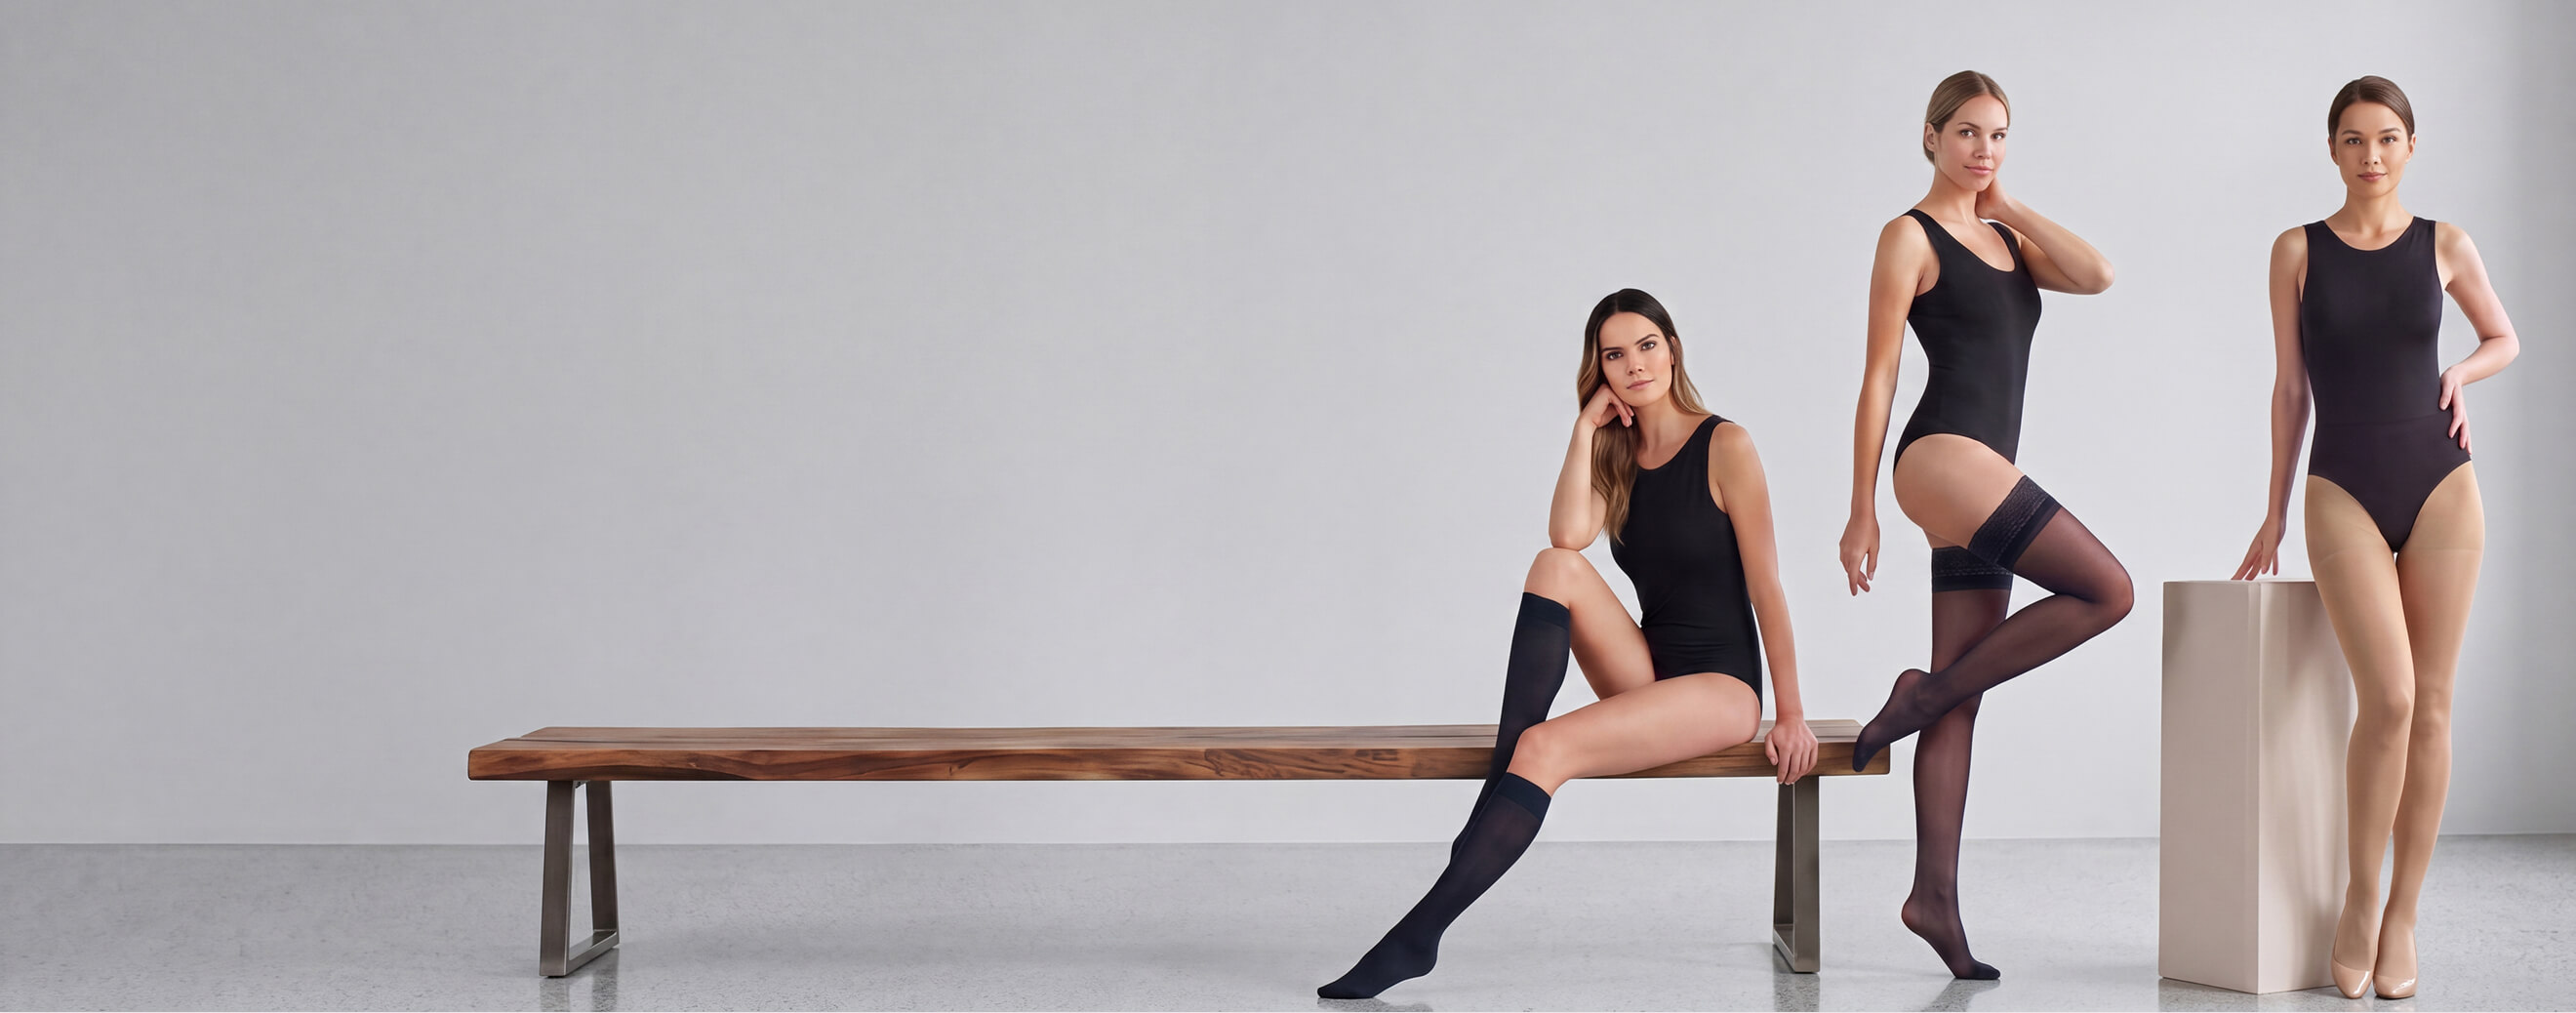
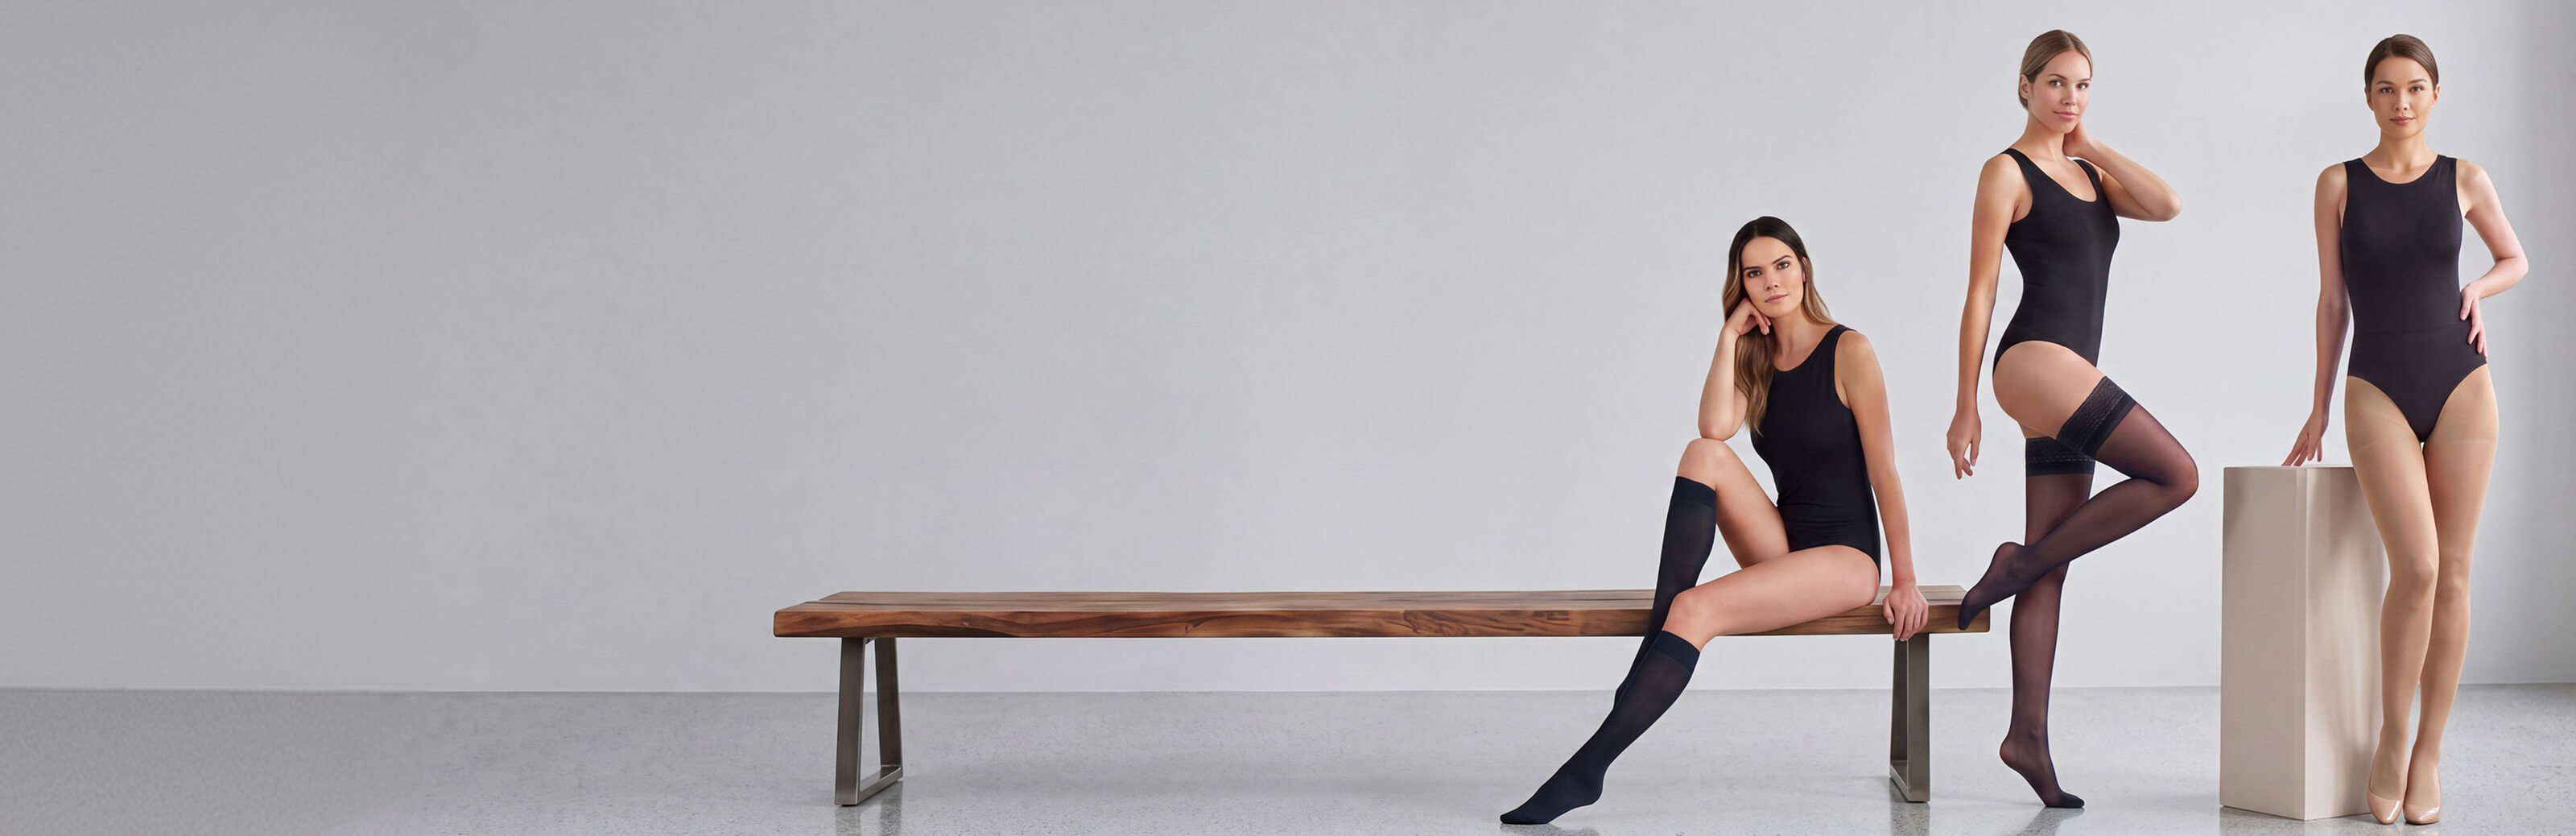
updates
Главная страница
- блок "почему ваши ноги..." - давайте сделаем отображение пинов при наведении, не при клике
- пин "отёки коленей и стоп" при клике немного
- блок "кому подойдёт..." - скролл сделать при скролле мышкой

Полезное видео
- https://c2n.me/4objw5G - что-то не так с выравниванием

Общие моменты
- добавили эскизы для 1920

Где купить?
- точки на карте сделали меньше

Changed region(s): [[0.0, 0.0308, 1.0, 1.0], [0.0932, 0.9865, 0.1242, 1.0]]

diff --git a/css/styles.css b/css/styles.css
@@ -479,7 +479,7 @@ header.fixed .header-logo {min-width:92px; max-width:92px}
     .breadcrumbs-mobile svg {min-width:5px; max-width:5px; height:7px; display:block; fill:none; stroke:#000000; transform:scale(-1, 1)}
 }
 
-.main-welcome {position:relative; margin:-100px 0 0 0; height:46.35vw}
+.main-welcome {position:relative; margin:-100px 0 0 0; height:666px}
 .main-welcome-bg {position:absolute; left:0; top:0; right:0; bottom:0; overflow:hidden}
 .main-welcome-bg img {position:relative; display:block; width:100%; height:100%; max-width:none; -o-object-fit:cover; object-fit:cover}
 .main-welcome-bg-mobile {display:none}
@@ -519,7 +519,7 @@ header.fixed .header-logo {min-width:92px; max-width:92px}
 
 @media (min-width:1441px) {
     .main-content {margin:0 0 -140px 0}
-    .main-section-white {margin:0 -160px; padding:100px 160px}
+    .main-section-white {margin:0 -160px; padding:120px 160px}
 }
 
 @media (max-width:1199px) {
@@ -553,7 +553,10 @@ header.fixed .header-logo {min-width:92px; max-width:92px}
 .main-why-point-3 .main-why-point-content {left:40px}
 .main-why-point-4 .main-why-point-content {right:40px}
 .main-why-point-text {display:none; margin:6px 0 0 0; color:#FFFFFF; min-width:205px}
-.main-why-point.open .main-why-point-text {display:block}
+.main-why-point-4 .main-why-point-text {margin-right:-10px}
+@media (min-width:1200px) {
+    .main-why-point:hover .main-why-point-text {display:block}
+}
 
 @media (max-width:1199px) {
     .main-why {margin:20px 0 0 0; padding:139.13% 0 0 0; background-image:url(../images/main-why-mobile.jpg)}
@@ -653,7 +656,7 @@ header.fixed .header-logo {min-width:92px; max-width:92px}
     .main-who-list .swiper-scrollbar.swiper-scrollbar-horizontal {margin:20px 15px 0 15px; height:2px}
 }
 
-.main-questionnaire {margin:0 -60px; padding:100px 60px; min-height:43.05vw; background:url(../images/main-questionnaire.jpg) no-repeat center; background-size:cover; display:flex; flex-direction:column; align-items:center; justify-content:center; text-align:center; color:#FFFFFF}
+.main-questionnaire {margin:0 -60px; padding:100px 60px; min-height:620px; background:url(../images/main-questionnaire.jpg) no-repeat center; background-size:cover; display:flex; flex-direction:column; align-items:center; justify-content:center; text-align:center; color:#FFFFFF}
 .main-questionnaire h2 {color:#FFFFFF}
 .main-questionnaire-btn {margin:40px 0 0 0}
 .main-questionnaire-btn .btn-border {border-color:#866857; color:#FFFFFF}
@@ -662,7 +665,7 @@ header.fixed .header-logo {min-width:92px; max-width:92px}
 }
 
 @media (min-width:1441px) {
-    .main-questionnaire {margin:0 -160px; padding:100px 160px}
+    .main-questionnaire {margin:0 -160px; padding:100px 160px; min-height:700px}
 }
 
 @media (max-width:1199px) {
@@ -811,9 +814,13 @@ header.fixed .header-logo {min-width:92px; max-width:92px}
     .health-recommendations-item-phlebodia .btn {width:100%}
 }
 
-.content-video {margin:20px 0; padding:56.25% 0 0 0; position:relative}
+.content-video {margin:20px 0; padding:640px 0 0 0; position:relative; background:#000000}
 .content-video video,
 .content-video iframe {position:absolute; left:0; top:0; width:100%; height:100%}
+
+@media (max-width:1199px) {
+    .content-video {padding:73.04% 0 0 0}
+}
 
 .catalogue-more {margin:40px 0 0 0}
 .catalogue-more .btn {display:flex; font-weight:300; font-size:16px; line-height:1.5em}
@@ -900,7 +907,7 @@ header.fixed .header-logo {min-width:92px; max-width:92px}
 .buy-recommend {margin:0 0 10px 0; font-weight:500; text-transform:uppercase; color:#866857}
 .buy-notice {margin:0 0 40px 0; font-weight:500; color:#000000}
 
-.buy-shop {margin:0 0 40px 0; padding:39.31% 0 0 0; background:url(../images/buy-shop.jpg) no-repeat center; background-size:cover; position:relative}
+.buy-shop {margin:0 0 40px 0; padding:519px 0 0 0; background:url(../images/buy-shop.jpg) no-repeat right center; background-size:cover; position:relative}
 .buy-shop:last-child {margin:0}
 .buy-shop-content {position:absolute; left:50px; top:50px; right:50px}
 .buy-shop-title {margin:0 0 20px 0; font-weight:normal; font-size:36px; line-height:44px; color:#000000}
@@ -916,7 +923,7 @@ header.fixed .header-logo {min-width:92px; max-width:92px}
 .buy-partners-title {margin:0 0 20px 0; font-weight:normal; font-size:24px; line-height:29px; color:#000000}
 .buy-partners-map {height:660px}
 .buy-map-marker {width:0; height:0; position:relative}
-.buy-map-marker-icon {position:absolute; left:-30px; top:-30px; width:60px; height:60px; background:#866857 url(../images/buy-map-marker.svg) no-repeat center; background-size:100%; border-radius:50%; cursor:pointer; transition:background-color 0.2s}
+.buy-map-marker-icon {position:absolute; left:-24px; top:-24px; width:48px; height:48px; background:#866857 url(../images/buy-map-marker.svg) no-repeat center; background-size:100%; border-radius:50%; cursor:pointer; transition:background-color 0.2s}
 @media (min-width:1200px) {
     .buy-map-marker-icon:hover {background-color:#000000}
 }
@@ -937,11 +944,12 @@ header.fixed .header-logo {min-width:92px; max-width:92px}
 @media (max-width:1199px) {
     .buy-partners-map {height:490px}
     .buy-map-popup {bottom:40px; width:315px; padding:10px}
-    .buy-map-marker-icon {left:-24px; top:-24px; width:48px; height:48px}
     .buy-map-popup-info-row {flex-direction:column; gap:5px 0}
     .buy-map-popup-info-row-label {min-width:0; max-width:none; color:rgba(255, 255, 255, 0.6)}
     .buy-map-popup-close {right:10px; top:10px}
 }
+
+.buy-map-cluster {width:60px; height:60px; display:flex; align-items:center; justify-content:center; border:2px solid #866857; background:#FFFFFF; border-radius:50%; font-weight:normal; font-size:24px; line-height:1em; color:#000000; letter-spacing:0}
 
 .spec {margin:40px 0 0 0}
 .spec-menu {display:flex}
@@ -993,18 +1001,22 @@ header.fixed .header-logo {min-width:92px; max-width:92px}
 .returns {display:flex; margin:40px 0 0 0; align-items:flex-start; gap:0 40px}
 .returns-info {flex-grow:1; display:flex; flex-direction:column; gap:40px 0}
 .returns-construct {border-top:1px solid #866857; border-bottom:1px solid #866857; padding:20px 0; font-weight:500; text-transform:uppercase; color:#866857}
-.returns-detail {min-width:37.87vw; max-width:37.87vw}
+.returns-detail {min-width:500px; max-width:500px}
 .returns-detail *:first-child {margin-top:0}
 .returns-detail *:last-child {margin-bottom:0}
+
+@media (min-width:1441px) {
+    .returns-detail {min-width:600px; max-width:600px}
+}
 
 @media (max-width:1199px) {
     .returns {margin:20px 0 0 0; flex-direction:column; gap:20px 0}
     .returns-detail {min-width:0; max-width:none}
 }
 
-.video-list {display:flex; margin:40px -10px 0 -10px; flex-wrap:wrap; gap:20px}
+.video-list {display:flex; margin:40px 0 0 0; flex-wrap:wrap; gap:20px}
 .video-item {min-width:calc(33.33% - 20px); max-width:calc(33.33% - 20px); display:flex; flex-direction:column; gap:10px 0}
-.video-item-preview {height:16.31vw; position:relative; overflow:hidden}
+.video-item-preview {height:235px; position:relative; overflow:hidden}
 .video-item-preview::after {content:""; position:absolute; left:0; top:0; right:0; bottom:0; background:rgba(0, 0, 0, 0.1); opacity:0; transition:opacity 0.2s}
 @media (min-width:1200px) {
     .video-item:hover .video-item-preview::after {opacity:1}

diff --git a/css/sitedown.css b/css/sitedown.css
@@ -21,13 +21,21 @@ a {outline:none; color:#866857; text-decoration:none; transition:color 0.2s}
 
 img {border:none; max-width:100%; height:auto}
 
-.container {max-width:1180px; width:100%; margin:0 auto}
+.container {width:100%; padding:0 60px}
+
+@media (min-width:1441px) {
+    .container {padding:0 160px}
+}
 
 @media (max-width:1199px) {
     .container {padding:0 15px}
 }
 
 .sitedown {padding:40px 0 140px 0}
+
+@media (min-width:1441px) {
+    .sitedown {padding:120px 0}
+}
 
 @media (max-width:1199px) {
     .sitedown {padding:40px 0}
@@ -36,23 +44,22 @@ img {border:none; max-width:100%; height:auto}
 .sitedown-logo {display:flex}
 .sitedown-logo img {width:183px}
 
-.sitedown-content {margin:40px 0 0 0; display:flex; align-items:center; justify-content:space-between}
+.sitedown-content {margin:40px 0 0 0; display:flex; align-items:center; justify-content:space-between; gap:0 100px}
 
 @media (max-width:1199px) {
     .sitedown-content {margin:20px 0 0 0; flex-direction:column; gap:20px 0}
 }
 
-.sitedown-text {min-width:540px; max-width:540px}
+.sitedown-text {flex:1}
 .sitedown-title {font-weight:normal; font-size:36px; line-height:44px; letter-spacing:0; color:#000000}
 .sitedown-descr {margin:21px 0 0 0}
 
 @media (max-width:1199px) {
-    .sitedown-text {min-width:0; max-width:none}
     .sitedown-title {font-weight:500; font-size:24px; line-height:1.5em}
     .sitedown-descr {margin:20px 0 0 0}
 }
 
-.sitedown-contacts {min-width:540px; max-width:540px; display:flex; flex-direction:column; gap:20px 0}
+.sitedown-contacts {flex:1; display:flex; flex-direction:column; gap:20px 0}
 .sitedown-contacts-block {display:flex; flex-direction:column; justify-content:space-between; gap:10px 0; padding:20px; background:#FFFFFF; min-height:185px}
 .sitedown-contacts-block-title {font-weight:normal; font-size:14px; line-height:1.5em; letter-spacing:0; color:#866857; text-transform:uppercase}
 .sitedown-contacts-block-text {margin:30px 0 0 0}
@@ -60,7 +67,7 @@ img {border:none; max-width:100%; height:auto}
 .sitedown-contacts-block-value a {color:#000000}
 
 @media (max-width:1199px) {
-    .sitedown-contacts {min-width:0; max-width:none; gap:10px 0}
+    .sitedown-contacts {gap:10px 0}
     .sitedown-contacts-block {padding:15px; gap:20px 0; min-height:0; background:#F7F7F4}
     .sitedown-contacts-block-title {font-size:12px; line-height:1.5em}
     .sitedown-contacts-block-value {font-size:20px; line-height:24px}

diff --git a/smartleg-07-video.html b/smartleg-07-video.html
@@ -106,11 +106,15 @@
                     <div class="video-list">
                         <a href="#" class="video-item">
                             <div class="video-item-preview"><img src="files/video-01.jpg" alt=""></div>
-                            <div class="video-item-title">Как правильно снять мерки при подборе колготок SMARTLEG&reg;</div>
+                            <div class="video-item-title">Как правильно снять мерки при подборе колготок SMARTLEG&reg; снять мерки при подборе колготок SMARTLEG&reg;</div>
                         </a>
                         <a href="#" class="video-item">
                             <div class="video-item-preview"><img src="files/video-02.jpg" alt=""></div>
                             <div class="video-item-title">Советы по&nbsp;надеванию</div>
+                        </a>
+                        <a href="#" class="video-item">
+                            <div class="video-item-preview"><img src="files/video-03.jpg" alt=""></div>
+                            <div class="video-item-title">Мы&nbsp;&mdash; SMARTLEG&reg;</div>
                         </a>
                         <a href="#" class="video-item">
                             <div class="video-item-preview"><img src="files/video-03.jpg" alt=""></div>

diff --git a/js/tools.js b/js/tools.js
@@ -265,6 +265,7 @@ $(document).ready(function() {
         new Swiper(curSlider.find('.swiper')[0], {
             slidesPerView: 'auto',
             freeMode: true,
+            mousewheel: true,
             scrollbar: {
                 el: curSlider.find('.swiper-scrollbar')[0],
             },